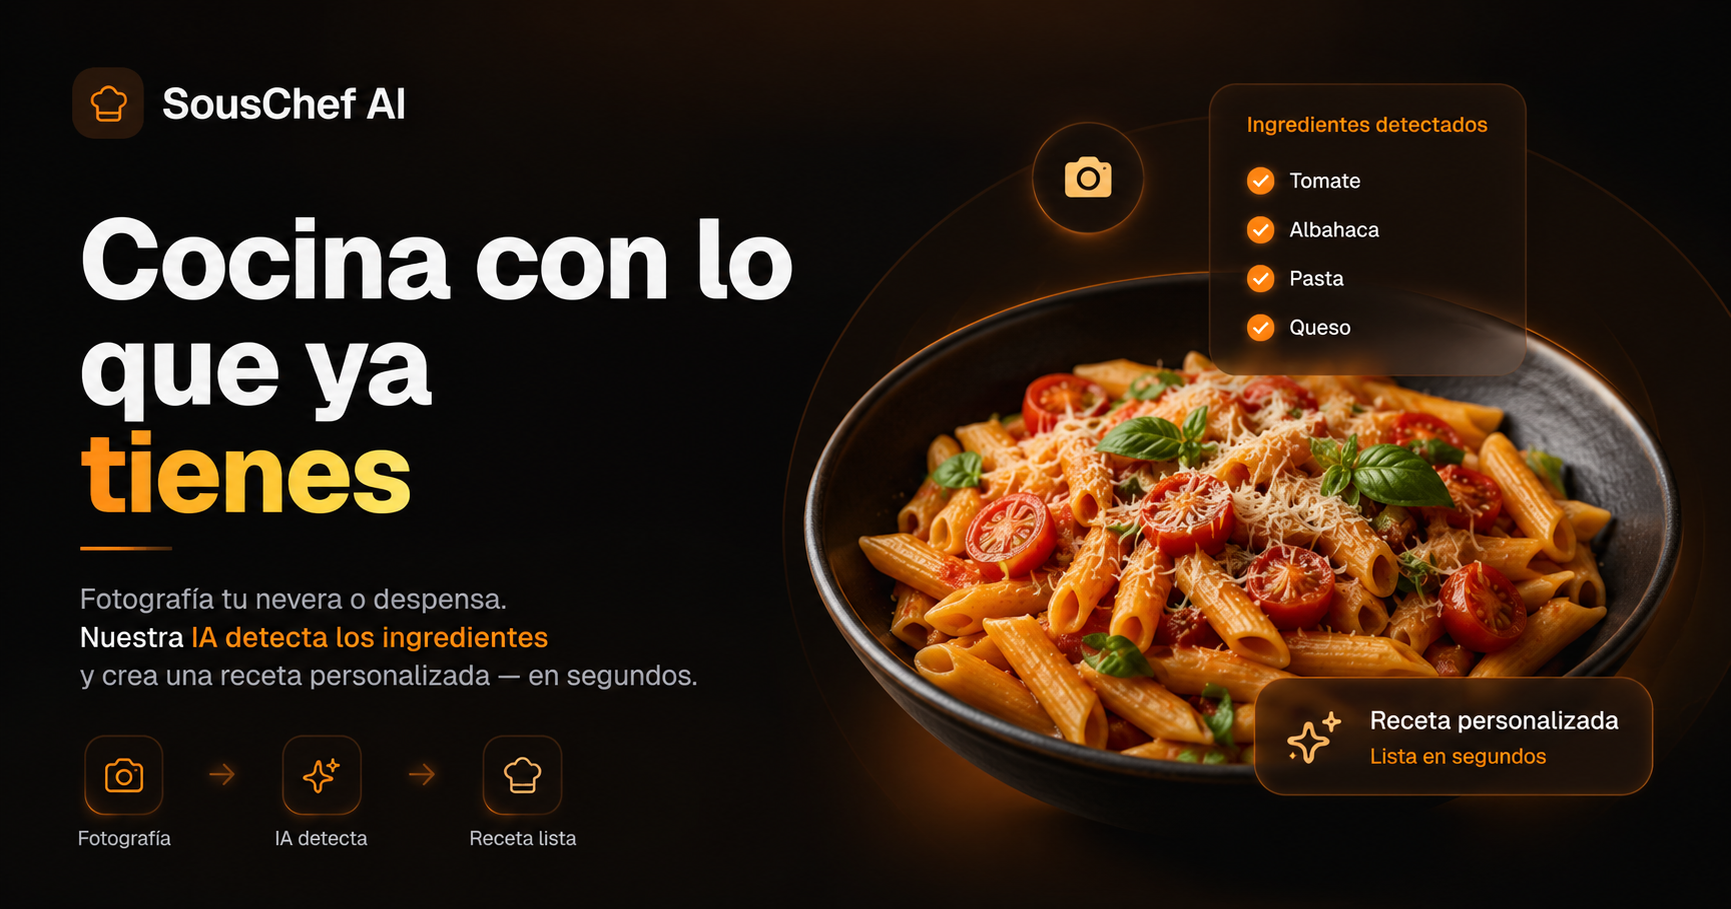
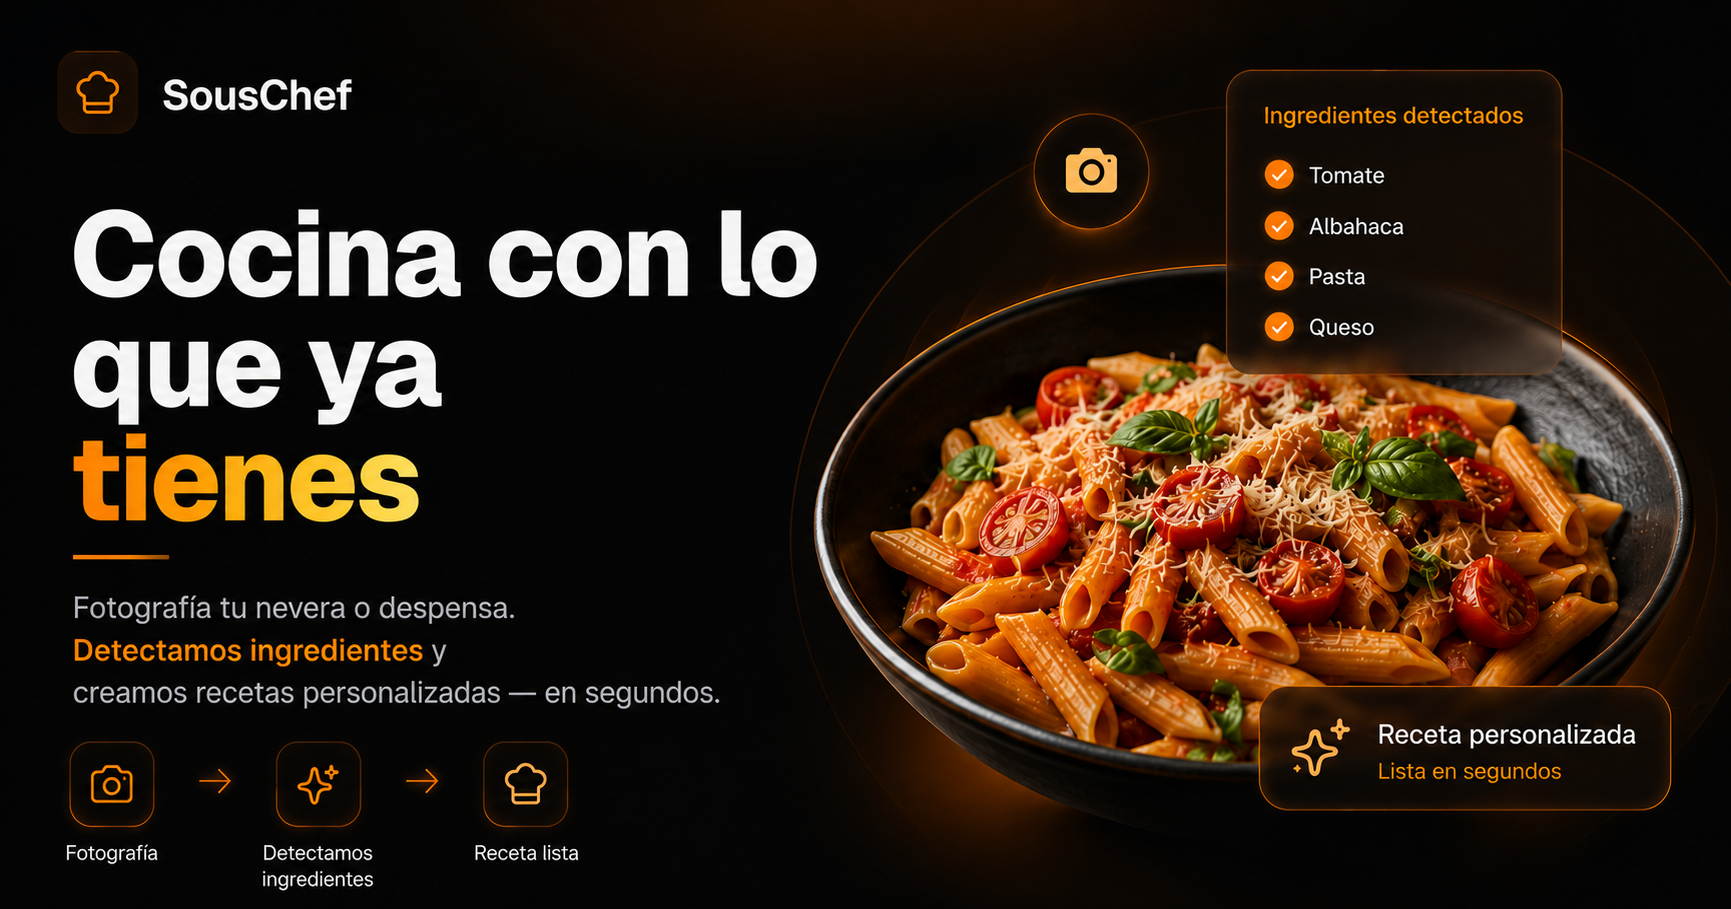
feat: update branding to remove "AI" from titles and descriptions in English and Spanish localization files

diff --git a/app/[locale]/page.tsx b/app/[locale]/page.tsx
@@ -24,7 +24,7 @@ export async function generateMetadata({
   const { locale } = await params;
   const canonical = locale === "en" ? "/" : "/es";
   return {
-    title: { absolute: "SousChef AI" },
+    title: { absolute: "SousChef" },
     alternates: {
       canonical,
       languages: {
